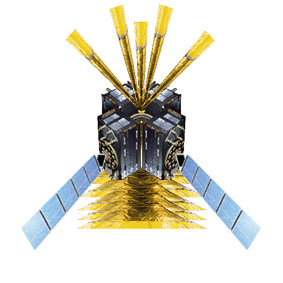
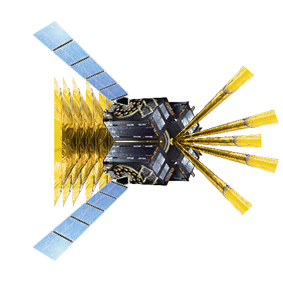
.

diff --git a/IMAGEWEB/index.css b/IMAGEWEB/index.css
@@ -35,7 +35,128 @@ img {
   animation-name: example;
   animation-duration: 50s;
    animation-iteration-count:infinite;
+   animation-timing-function: linear;
+     animation-delay: -2s;
 }
+.sattext{
+  font-family: 'IBM Plex Serif', serif;
+  font-style: italic;
+  font-size: 13px;
+  background-color: rgba(0, 0, 0, 0.7);
+  color: white;
+  border-radius: 20px;
+  visibility: hidden;
+padding: 0.5em;
+text-align: center;
+width: 100%;
+height: auto;
+word-break: break-all;
+
+}
+
+#sat:hover .sattext{
+visibility: visible;
+z-index: 9;
+}
+
+.sattext2{
+  font-family: 'IBM Plex Serif', serif;
+  font-style: italic;
+  font-size: 13px;
+  background-color: rgba(0, 0, 0, 0.7);
+  color: white;
+  border-radius: 20px;
+  visibility: hidden;
+padding: 0.5em;
+text-align: center;
+width: 100%;
+height: auto;
+word-break: break-all;
+
+}
+
+#sat2:hover .sattext2{
+visibility: visible;
+z-index: 9;
+}
+.sattext3{
+  font-family: 'IBM Plex Serif', serif;
+  font-style: italic;
+  font-size: 13px;
+  background-color: rgba(0, 0, 0, 0.7);
+  color: white;
+  border-radius: 20px;
+  visibility: hidden;
+padding: 0.5em;
+text-align: center;
+width: 100%;
+height: auto;
+word-break: break-all;
+
+}
+
+#sat3:hover .sattext3{
+visibility: visible;
+z-index: 9;
+}
+
+.sattext4{
+  font-family: 'IBM Plex Serif', serif;
+  font-style: italic;
+  font-size: 13px;
+  background-color: rgba(0, 0, 0, 0.7);
+  color: white;
+  border-radius: 20px;
+  visibility: hidden;
+padding: 0.5em;
+text-align: center;
+width: 100%;
+height: auto;
+word-break: break-all;
+
+}
+
+#sat4:hover .sattext4{
+visibility: visible;
+z-index: 9;
+}
+
+
+#sat2 {
+  object-fit: contain;
+  width: 100px;
+  height: 100px;
+  position: relative;
+  animation-name: example2;
+  animation-duration: 50s;
+   animation-iteration-count:infinite;
+   animation-timing-function: linear;
+     animation-delay: -2s;
+}
+#sat3 {
+  object-fit: contain;
+  width: 100px;
+  height: 100px;
+  position: relative;
+  animation-name: example3;
+  animation-duration: 50s;
+   animation-iteration-count:infinite;
+   animation-timing-function: linear;
+     animation-delay: -2s;
+}
+#sat4 {
+  object-fit: contain;
+  width: 100px;
+  height: 100px;
+  position: relative;
+  animation-name: example4;
+  animation-duration: 45s;
+   animation-iteration-count:infinite;
+   animation-timing-function: linear;
+     animation-delay: -2s;
+
+}
+
 #satimg{
         max-width: 100%;
         max-height: 100%;
@@ -47,8 +168,22 @@ img {
   50%  { left:105vw; top:40vh;}
   100% {left:50vw; top:105vh;}
 }
+@keyframes example2 {
+  0%   {left:10vw; top:105vh;}
+  50% {left:10vw; top:-10vh;}
+  100% {left:105vw; top:90vh}
+}
+@keyframes example3 {
+  0%   {left:105vw; top:0vh;}
+  50%  { left:-15vw; top:40vh;}
+  100% {left:50vw; top:105vh;}
+}
 
-
+@keyframes example4 {
+  0%   {left:-5vw; top:0vh;}
+  50%  { left:110vw; top:40vh;}
+  100% {left:-10vw; top:5vh;}
+}
 
 .icon {
 
@@ -186,6 +321,7 @@ img {
   top: 0;
   left: 48%;
 }
+
 
 
 

diff --git a/IMAGEWEB/index.html b/IMAGEWEB/index.html
@@ -140,7 +140,18 @@ replicas.</p>
 
 
 </div>
-<div id="sat"><img id="satimg" src="media/satellite1.png"/></div>
+<div id="sat"><img id="satimg" src="media/satellite1.png"/><p class="sattext">
+  somethingsomething
+</p></div>
+<div id="sat2"><img id="satimg" src="media/satellite12.png"/><p class="sattext2">
+  somethingsomething
+</p></div>
+<div id="sat3"><img id="satimg" src="media/satellite13.png"/><p class="sattext3">
+  somethingsomething
+</p></div>
+<div id="sat4"><img id="satimg" src="media/satellite14.png"/><p class="sattext4">
+  somethingsomething
+</p></div>
 
 
 
